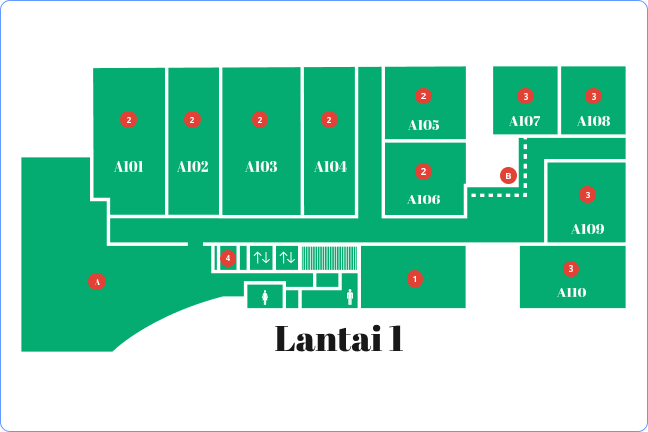
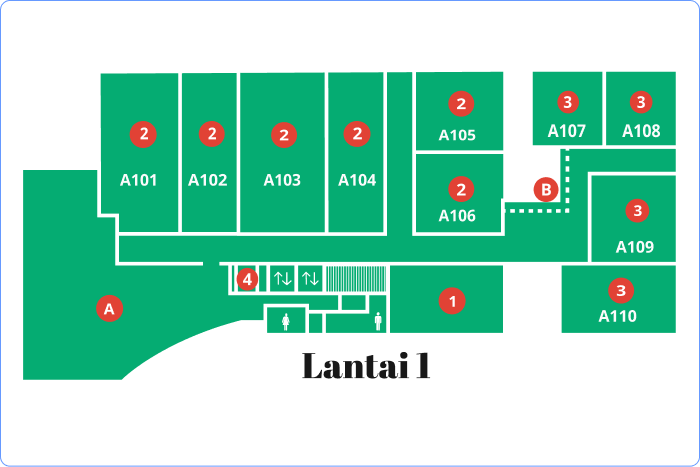
revisi #4: minor fixes - replaced lorem ipsum on landings, updated asset gedung baru, updated keterangan on denah gedung baru, updated asset pacilLife (the circles are now same sized), updated felfest photo, added links to scele & ddp0 buttons, added margins to some buttons

diff --git a/src/components/infoAkademik/scele.js b/src/components/infoAkademik/scele.js
@@ -14,7 +14,7 @@ export default function scele() {
                 <Col md={8}>
                     <p>Kegiatan pembelajaran di Fasilkom menggunakan Student Centered E-Learning Environment atau disingkat SCELE. SCELE Fasilkom memberi kamu akses materi dari semua matkul Fasilkom kecuali matkul wajib universitas, mendapatkan pengumuman, mengumpulkan tugas, mengerjakan kuis, hingga mengerjakan ujian online. </p>
                     <p>Kamu bisa mengakses SCELE Fasilkom melalui <a target="blank" href="https://scele.cs.ui.ac.id/">https://scele.cs.ui.ac.id/</a>, untuk tutorial penggunaannya dapat dilihat melalui:</p>
-                    <Button variant="secondary">Click di sini</Button>
+                    <a href="https://scele.cs.ui.ac.id/static/tutorial/tutorial_mahasiswa.pdf" target="blank"><Button variant="secondary">Click di sini</Button></a>
                     <p>Untuk mengakses SCELE UI dapat melalui <a target="blank" href="https://scele.ui.ac.id/">https://scele.ui.ac.id/</a>. SCELE UI tidak digunakan dalam pembelajaran di Fasilkom, sebab untuk materi wajib universitas yaitu MPKT-B dan MPKT-A, kamu dapat mengaksesnya secara langsung melalui <a target="blank" href="https://emas.ui.ac.id/">https://emas.ui.ac.id/</a>.</p>
 
                     <p>Tenang aja, kamu akan diajarkan cara penggunaan SCELE saat masuk kuliah nanti kok!</p>

diff --git a/src/components/infoKampus/beasiswa.js b/src/components/infoKampus/beasiswa.js
@@ -15,7 +15,7 @@ export default function beasiswa() {
                 <Col md={7}>
                     <p>Siapa sih yang tidak mau mendapat beasiswa?<br/>Di UI, kita menerima banyak sekali beasiswa dari berbagai instansi. Beasiswa yang ditawarkan juga sangat beragam loh!</p>
                     <p>Dengan website Beasiswa UI, kamu dapat mengetahui beasiswa apa saja yang sedang dibuka. Setiap beasiswa akan mempunyai syarat-syarat tertentu jika kamu ingin melamar.</p>
-                    <p>Jika kamu tertarik untuk melihat apa saja beasiswa-beasiswa yang sedang ditawarkan, kamu bisa lihat dari website: <a href="http://beasiswa.ui.ac.id/">http://beasiswa.ui.ac.id/</a></p>
+                    <p>Jika kamu tertarik untuk melihat apa saja beasiswa-beasiswa yang sedang ditawarkan, kamu bisa lihat dari website: <a href="http://beasiswa.ui.ac.id/" target="blank">http://beasiswa.ui.ac.id/</a></p>
                     <p>Beasiswa yang tersedia akan terus diupdate, jadi yuk dipantau terus websitenya! Siapa tahu ada beasiswa yang cocok buat kamu!</p>
                 </Col>
             </Row>

diff --git a/src/components/infoPacil/kepanitiaan.js b/src/components/infoPacil/kepanitiaan.js
@@ -23,7 +23,7 @@ export default class kepanitiaan extends Component {
                                     <h2>{item.title}</h2>
                                 </div>
                                 <p>{item.desc}</p>                          
-                                <a href={item.link}>{item.link}</a>  
+                                <a href={item.link} target="blank">{item.link}</a>  
                             </Card.Body>
                         </Card>
                     ))}                    
@@ -40,7 +40,7 @@ export default class kepanitiaan extends Component {
                                     <h2>{item.title}</h2>
                                 </div>
                                 <p>{item.desc}</p>                          
-                                <a href={item.link}>{item.link}</a>   
+                                <a href={item.link} target="blank">{item.link}</a>   
                             </Card.Body>
                         </Card>
                     ))}                    

diff --git a/src/components/infoPacil/ngoding101.js b/src/components/infoPacil/ngoding101.js
@@ -34,9 +34,9 @@ export default class ngoding101 extends Component {
                             </ListGroup>
                         </Col>
                     </Row>
-                    <Row className="mt-3 ddp">
+                    <Row className="mt-3 ddp justify-content-center">
                         <p>Buat kamu yang belum pernah ngoding sebelumnya atau ingin latihan ngoding, bisa banget nih daftar <b>DDP0</b>. Di DDP0 kamu akan belajar bersama kakak tingkat mengenai dasar-dasar dalam pemrograman.</p>
-                        <Button size="lg" variant="secondary" className="mx-auto">Daftar DDP0 Sekarang!</Button>
+                        <a href="https://line.me/R/ti/p/@gcu4092j" target="blank"><Button variant="secondary">Daftar DDP0 Sekarang!</Button></a>
                     </Row>
                 </div>
             )

diff --git a/src/components/infoKampus/fiturSivitas.js b/src/components/infoKampus/fiturSivitas.js
@@ -20,10 +20,10 @@ export default function fiturSivitas() {
             <CardColumns>
                 { fitur.map( item => (
                     <Card className="subcard" key={item.name}>
-                    <img alt="" src={require(`../../assets/infoKampus/fitur-${item.name}.png`)} className="imgtopper" />
+                    <img alt="" className="imgtopper" src={require(`../../assets/infoKampus/fitur-${item.name}.png`)} />
                     <h3>{item.title}</h3>
                     <p>{item.desc}</p>
-                    <p>More info: <a href={item.link}>{item.link}</a></p>
+                    <p>More info: <a href={item.link} target="blank">{item.link}</a></p>
                 </Card>
                 ))}                
             </CardColumns> 

diff --git a/src/components/infoKampus/transportasi.js b/src/components/infoKampus/transportasi.js
@@ -24,7 +24,7 @@ export default function transportasi() {
             <CardDeck>
                 { transport.slice(2).map( vehicle => (
                     <Card key={vehicle.name} className="subcard mx-3">
-                        <img alt="" src={ require(`../../assets/infoKampus/transport-${vehicle.name}.svg`) } style={{height:"10rem", margin:"1rem auto"}} />
+                        <img alt="" className="lozad" src={ require(`../../assets/infoKampus/transport-${vehicle.name}.svg`) } style={{height:"10rem", margin:"1rem auto"}} />
                         <h3 className="text-center"><b>{vehicle.title}</b></h3>
                         <p style={{padding:"0 1rem"}}>{vehicle.desc}</p>
                     </Card>

diff --git a/src/styles/infoPacil.js b/src/styles/infoPacil.js
@@ -226,14 +226,16 @@ const Styles = styled.div`
         }
     }
     #yelyel {
-        .card-deck {
-            .card {
-                margin: 0 15px 0 15px;
-            }
+        @media (max-width:576px) { padding: 1rem }
+        .card-deck {            
             @media (max-width:768px) { 
                 flex-direction: column;
                 .card { margin: 10px 15px } 
-            }            
+            }    
+            .card {
+                margin: 0 15px 0 15px;
+                @media (max-width:576px) { margin: .5rem 0 } 
+            }                   
         }
     }
 

diff --git a/src/pages/infoKampus.js b/src/pages/infoKampus.js
@@ -17,7 +17,7 @@ import Styles from '../styles/infoKampus'
 
 export default function infoKampus() {
     const title = "Info Kampus"
-    const desc = "Lorem ipsum dolor sit amet, consectetur adipisicing elit. Quis cum ab voluptates ullam excepturi doloribus nihil voluptate quos consectetur delectus?"
+    const desc = "Mau keliling UI tapi tidak tahu jalan? Mau ngekost tapi bingung di mana? Ingin tahu tempat-tempat iconic di UI? Semua pertanyaanmu akan terjawab di halaman ini. Ayo, makin kenal dengan kampus kita!"
 
     return (
         <Styles>

diff --git a/src/pages/kanalInfo.js b/src/pages/kanalInfo.js
@@ -14,7 +14,7 @@ import Styles from '../styles/kanalInfo'
 
 export default function kanalInfo() {
     const title = "Kanal Informasi"
-    const desc = "Lorem ipsum dolor sit amet, consectetur adipisicing elit. Quis cum ab voluptates ullam excepturi doloribus nihil voluptate quos consectetur delectus?"
+    const desc = "Ingin tahu lebih banyak tentnang informasi birokrasi dan advokasi di Fasilkom? Di halaman ini, kamu dapat menyimak beberapa kanal informasi yang dapat kamu hubungin di Fasilkom!"
     const data = kanal.info
 
     return (

diff --git a/src/pages/infoAkademik.js b/src/pages/infoAkademik.js
@@ -15,7 +15,7 @@ import Styles from '../styles/infoAkademik'
 
 export default function infoAkademik() {
     const title = "Info Akademik"
-    const desc = "Lorem ipsum dolor sit amet, consectetur adipisicing elit. Quis cum ab voluptates ullam excepturi doloribus nihil voluptate quos consectetur delectus?"
+    const desc = "Di halaman ini, kamu dapat mengetahui seperti apa pembelajaran di Fasilkom, mulai dari jurusan, mata kuliah, sampai kurikulum. Simak halaman ini dan ersiapkan kehidupan kuliahmu!"
 
     return (
         <Styles>

diff --git a/src/pages/infoPacil.js b/src/pages/infoPacil.js
@@ -18,7 +18,7 @@ import Styles from '../styles/infoPacil'
 
 export default function infoPacil() {
     const title = "Info Fasilkom"
-    const desc = "Lorem ipsum dolor sit amet, consectetur adipisicing elit. Quis cum ab voluptates ullam excepturi doloribus nihil voluptate quos consectetur delectus?"
+    const desc = "Tak kenal maka tak sayang, Yuk, kenali makin dalam tentang Fasilkom! Halaman ini akan menjelaskan berbagai macam hal tentang fakultas tercinta kita."
 
     return (
         <Styles>

diff --git a/src/styles/infoAkademik.js b/src/styles/infoAkademik.js
@@ -44,9 +44,12 @@ const Styles = styled.div`
         }
     }
 
-    #kurikulum img {
-        width: 90%;
-        margin: 5%;
+    #kurikulum {
+        img {
+            width: 90%;
+            margin: 5%;
+        }
+        .btnwrapper button { margin: 5px }
     }
 
     .btn-primary {
